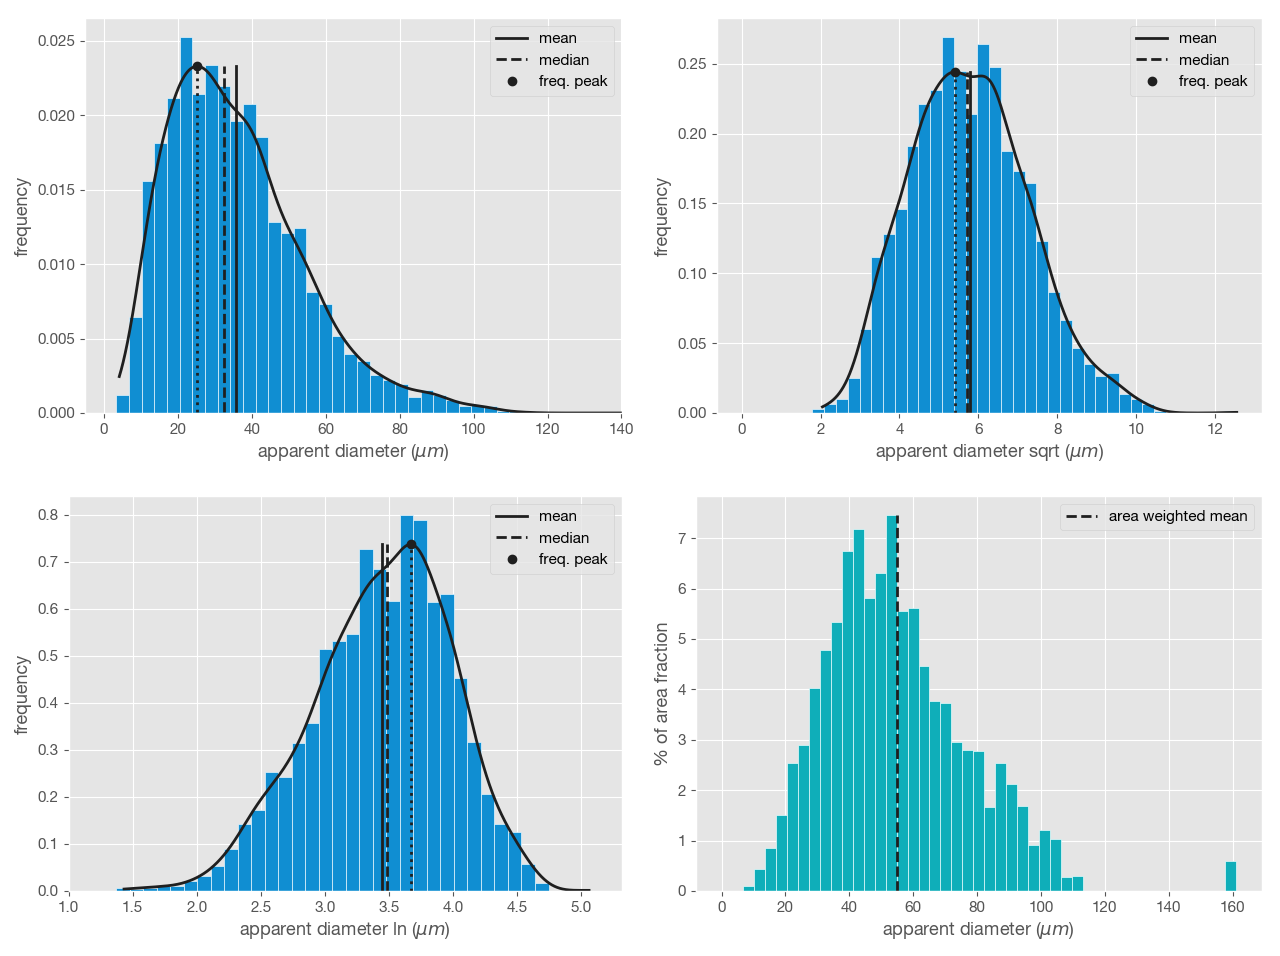
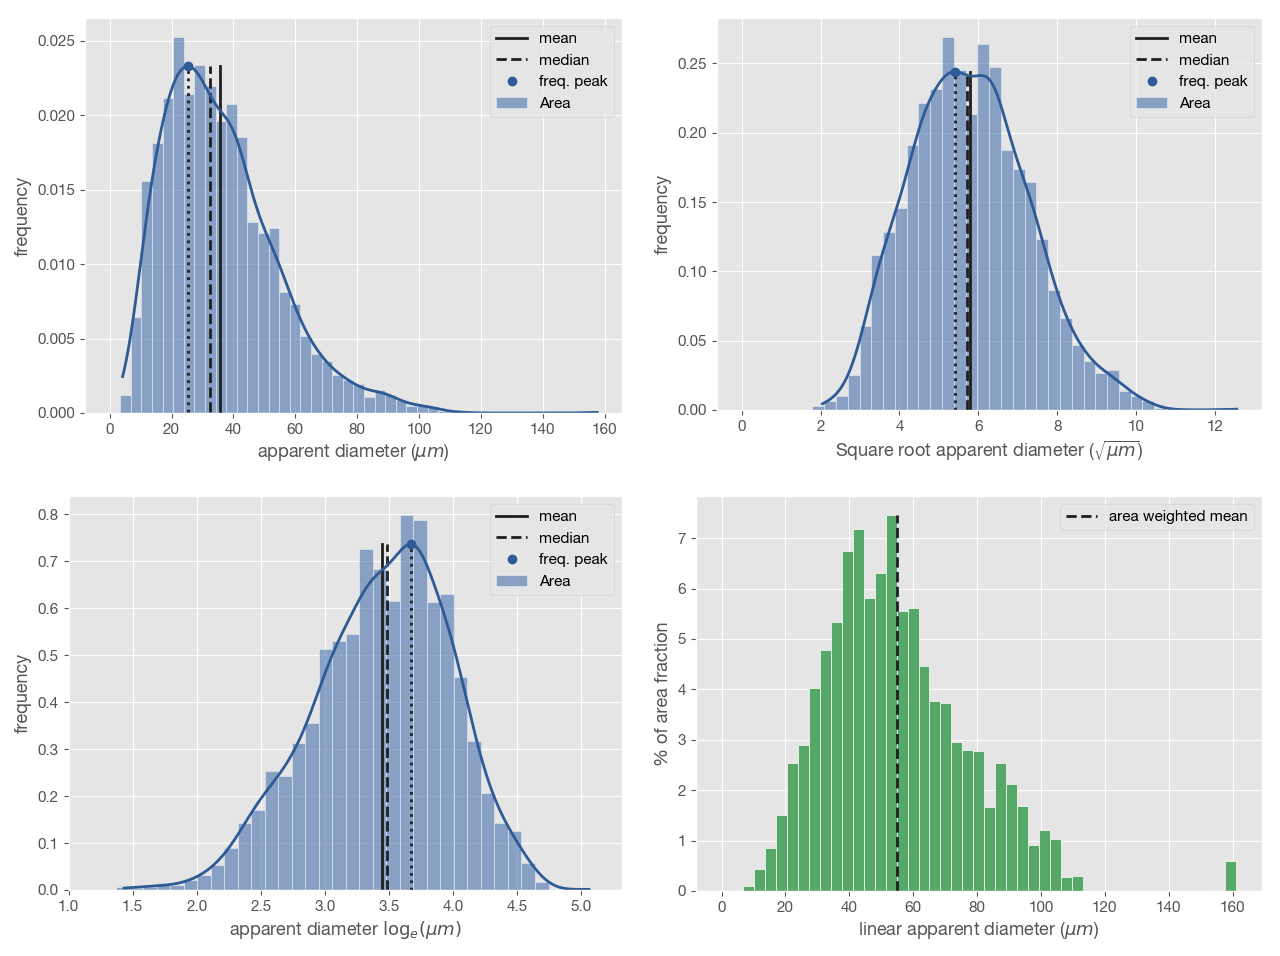
release v1.4.5

diff --git a/index.html b/index.html
@@ -223,10 +223,10 @@ header, .context-menu, .megamenu-content, footer { font-family: "Segoe UI", Aria
 </style>
 </head>
 <body class='typora-export' >
-<div  id='write'  class = 'is-node'><p><img src='https://raw.githubusercontent.com/marcoalopez/GrainSizeTools/master/FIGURES/new_header.png' alt='' /></p><p><em>This project is maintained by <a href='https://marcoalopez.github.io/'>Marco A. Lopez-Sanchez</a> - Last update (website): 2018/03/26</em><br/></p><p><a href='http://marcoalopez.github.io/GrainSizeTools/'>GrainSizeTools script</a> is a free, open-source, cross-platform script written in <a href='https://www.python.org/'>Python</a> that provides several tools for visualizing and estimating grain size in polycrystalline materials. The script is able to <strong>estimate differential stress through paleopiezometers</strong>, implementing multiple piezometric relations for comparison, and to derive the actual (3D) grain size distribution from thin sections using the Saltykov and the two-step methods. The script only requires as input the areas of the grain profiles measured grain-by-grain in a thin section and <strong>does not require previous experience with Python programming language</strong> (see documentation below and <a href='https://github.com/marcoalopez/GrainSizeTools/blob/master/DOCS/FAQ.md'>FAQ</a>). For users with coding skills, the script is organized in a modular way using functions that facilitate the reuse or extend the code.</p><p><strong>Last release 2018/03/26, v1.4.4</strong> <br/></p><h2><a name='header-n10' class='md-header-anchor '></a>Features at a glance</h2><ul><li>Extract data from text (.txt, .csv) or excel files generated by the ImageJ or any other application.</li><li>Calculate apparent diameters of grain profiles via the equivalent circular diameter.</li><li>Estimate different apparent 1D grain size measures including the mean, median, area-weighted mean, and frequency peak, the latter using a Gaussian Kernel Density Estimator. Grain size scales can be linear, logarithmic, or square root.</li><li>Includes several algorithms to estimate the optimal bin size of histograms and the optimal bandwidth of the Gaussian KDE based on the population features.</li><li>Approximate the actual 3D grain size distribution from data collected in thin sections (2D data) using the Saltykov method. This includes estimating the volume of a particular grain size fraction.</li><li>Approximate the shape of the 3D grain size distribution using a single parameter (the MSD - <em>Multiplicative Standard Deviation</em>) via the two-step method.</li><li>Estimate differential stress via paleopiezometers including multiple piezometric relations for quartz, olivine, calcite, and albite. Other phases available soon!</li><li>Ready-to-publish plots in bitmap or vector format (see screenshots below for examples).</li><li><strong>New in v1.4.4:</strong> Estimate robust confidence intervals using the student&#39;s t-distribution</li></ul><h2><a name='header-n39' class='md-header-anchor '></a>Download</h2><p>You can download the script at the following sites:<br/>
+<div  id='write'  class = 'is-node'><p><img src='https://raw.githubusercontent.com/marcoalopez/GrainSizeTools/master/FIGURES/new_header.png' alt='' /></p><p><em>This project is maintained by <a href='https://marcoalopez.github.io/'>Marco A. Lopez-Sanchez</a> - Last update (website): 2018/03/27</em><br/></p><p><a href='http://marcoalopez.github.io/GrainSizeTools/'>GrainSizeTools script</a> is a free, open-source, cross-platform script written in <a href='https://www.python.org/'>Python</a> that provides several tools for visualizing and estimating grain size in polycrystalline materials. The script is able to <strong>estimate differential stress through paleopiezometers</strong>, implementing multiple piezometric relations for comparison, and to derive the actual (3D) grain size distribution from thin sections using the Saltykov and the two-step methods. The script only requires as input the areas of the grain profiles measured grain-by-grain in a thin section and <strong>does not require previous experience with Python programming language</strong> (see documentation below and <a href='https://github.com/marcoalopez/GrainSizeTools/blob/master/DOCS/FAQ.md'>FAQ</a>). For users with coding skills, the script is organized in a modular way using functions that facilitate the reuse or extend the code.</p><p><strong>Last release 2018/03/27, v1.4.5</strong> <br/></p><h2><a name='header-n10' class='md-header-anchor '></a>Features at a glance</h2><ul><li>Extract data from text (.txt, .csv) or excel files generated by the ImageJ or any other application.</li><li>Calculate apparent diameters of grain profiles via the equivalent circular diameter.</li><li>Estimate different apparent 1D grain size measures including the mean, median, area-weighted mean, and frequency peak, the latter using a Gaussian Kernel Density Estimator. Grain size scales can be linear, logarithmic, or square root.</li><li>Includes several algorithms to estimate the optimal bin size of histograms and the optimal bandwidth of the Gaussian KDE based on the population features.</li><li>Approximate the actual 3D grain size distribution from data collected in thin sections (2D data) using the Saltykov method. This includes estimating the volume of a particular grain size fraction.</li><li>Approximate the shape of the 3D grain size distribution using a single parameter (the MSD - <em>Multiplicative Standard Deviation</em>) via the two-step method.</li><li>Estimate differential stress via paleopiezometers including multiple piezometric relations for quartz, olivine, calcite, and albite. Other phases available soon!</li><li>Ready-to-publish plots in bitmap or vector format (see screenshots below for examples).</li><li><strong>New in v1.4.4:</strong> Estimate robust confidence intervals using the student&#39;s t-distribution</li></ul><h2><a name='header-n39' class='md-header-anchor '></a>Download</h2><p>You can download the script at the following sites:<br/>
 <a href='https://github.com/marcoalopez/GrainSizeTools/releases' target='_blank' >https://github.com/marcoalopez/GrainSizeTools/releases</a><br/>
 <a href='http://figshare.com/articles/GrainSizeTools_script/1383130' target='_blank' >http://figshare.com/articles/GrainSizeTools_script/1383130</a><br/>
-<a href='https://sourceforge.net/projects/grainsizetools/' target='_blank' >https://sourceforge.net/projects/grainsizetools/</a></p><p><a href='https://github.com/marcoalopez/GrainSizeTools'>View the Project on GitHub</a></p><h2><a name='header-n47' class='md-header-anchor '></a>Documentation</h2><ul><li><p><a href='https://github.com/marcoalopez/GrainSizeTools/blob/master/DOCS/Requirements.md'>Requirements</a></p></li><li><p><a href='https://github.com/marcoalopez/GrainSizeTools/blob/master/DOCS/Scope.md'>Scope</a></p></li><li><p><a href='https://github.com/marcoalopez/GrainSizeTools/blob/master/DOCS/brief_tutorial.md'>Getting started: A step-by-step tutorial</a></p><ul><li><p><a href='https://github.com/marcoalopez/GrainSizeTools/blob/master/DOCS/brief_tutorial.md#open-and-running-the-script'>Open and running the script</a></p></li><li><p><a href='https://github.com/marcoalopez/GrainSizeTools/blob/master/DOCS/brief_tutorial.md#a-brief-note-on-the-organization-of-the-script'>A brief note on the organization of the script</a></p></li><li><p><a href='https://github.com/marcoalopez/GrainSizeTools/blob/master/DOCS/brief_tutorial.md#using-the-script-to-visualize-and-estimate-the-grain-size-features'>Using the script to visualize and estimate the grain size features</a></p><ul><li><a href='https://github.com/marcoalopez/GrainSizeTools/blob/master/DOCS/brief_tutorial.md#loading-the-data-and-extracting-the-areas-of-the-grain-profiles'>Loading the data and extracting the areas of the grain profiles</a></li><li><a href='https://github.com/marcoalopez/GrainSizeTools/blob/master/DOCS/brief_tutorial.md#estimating-the-apparent-diameters-from-the-areas-of-the-grain-profiles'>Estimating the apparent diameters from the areas of the grain profiles</a></li><li><a href='https://github.com/marcoalopez/GrainSizeTools/blob/master/DOCS/brief_tutorial.md#obtaining-apparent-grain-size-measures'>Obtaining apparent grain size measures</a></li><li><a href='https://github.com/marcoalopez/GrainSizeTools/blob/master/DOCS/brief_tutorial.md#estimating-differential-stress-using-piezometric-relations-paleopiezometry'>Estimating differential stress using piezometric relations (paleopiezometry)</a></li><li><a href='https://github.com/marcoalopez/GrainSizeTools/blob/master/DOCS/brief_tutorial.md#estimating-a-robust-confidence-interval'>Estimating a robust confidence interval</a></li><li><a href='https://github.com/marcoalopez/GrainSizeTools/blob/master/DOCS/brief_tutorial.md#derive-the-actual-3d-distribution-of-grain-sizes-from-thin-sections'>Derive the actual 3D distribution of grain sizes from thin sections</a></li><li><a href='https://github.com/marcoalopez/GrainSizeTools/blob/master/DOCS/brief_tutorial.md#comparing-different-grain-size-populations-using-box-plots'>Comparing different grain size populations using box plots</a></li><li><a href='https://github.com/marcoalopez/GrainSizeTools/blob/master/DOCS/brief_tutorial.md#general-methods-of-interest'>Other methods of interest</a></li></ul></li></ul></li><li><p><a href='https://github.com/marcoalopez/GrainSizeTools/blob/master/DOCS/quick_tutorial.md'>Quick tutorial</a></p></li><li><p><a href='https://github.com/marcoalopez/GrainSizeTools/blob/master/DOCS/imageJ_tutorial.md'>How to measure the areas of the grain profiles with ImageJ</a></p></li><li><p><a href='https://github.com/marcoalopez/GrainSizeTools/blob/master/DOCS/references.md'>References</a></p></li><li><p><a href='https://github.com/marcoalopez/GrainSizeTools/blob/master/DOCS/FAQ.md'>FAQs</a></p></li></ul><h2><a name='header-n105' class='md-header-anchor '></a>Screenshots</h2><h6><a name='header-n107' class='md-header-anchor '></a>Estimate of different apparent grain size measures in the same population, in this example using a linear (number- and area-weighted), square root, and logarithmic scales.</h6><p><img src='https://raw.githubusercontent.com/marcoalopez/GrainSizeTools/master/FIGURES/apparent_GS.png' alt='' /><br/></p><h6><a name='header-n111' class='md-header-anchor '></a>Estimate of the actual (3D) grain size distribution and volume of a particular grain size fraction using the Saltykov method</h6><p><img src='https://github.com/marcoalopez/GrainSizeTools/blob/master/FIGURES/figure_2.png?raw=true' alt='' /><br/></p><h6><a name='header-n115' class='md-header-anchor '></a>Estimate of the shape of the grain size distribution using the two-step method</h6><p><img src='https://github.com/marcoalopez/GrainSizeTools/blob/master/FIGURES/2step.png?raw=true' alt='' /><br/></p><h6><a name='header-n119' class='md-header-anchor '></a>Boxplots comparing different unimodal grain size distributions</h6><p><img src='https://raw.githubusercontent.com/marcoalopez/GrainSizeTools/master/FIGURES/readme05.png' alt='' /><br/></p><h2><a name='header-n123' class='md-header-anchor '></a>Citation guidelines</h2><p>If you need references, the following are available:</p><p><strong><em>Script reference</em></strong> <br/>
+<a href='https://sourceforge.net/projects/grainsizetools/' target='_blank' >https://sourceforge.net/projects/grainsizetools/</a></p><p><a href='https://github.com/marcoalopez/GrainSizeTools'>View project on GitHub</a></p><h2><a name='header-n47' class='md-header-anchor '></a>Documentation</h2><ul><li><p><a href='https://github.com/marcoalopez/GrainSizeTools/blob/master/DOCS/Requirements.md'>Requirements</a></p></li><li><p><a href='https://github.com/marcoalopez/GrainSizeTools/blob/master/DOCS/Scope.md'>Scope</a></p></li><li><p><a href='https://github.com/marcoalopez/GrainSizeTools/blob/master/DOCS/brief_tutorial.md'>Getting started: A step-by-step tutorial</a></p><ul><li><p><a href='https://github.com/marcoalopez/GrainSizeTools/blob/master/DOCS/brief_tutorial.md#open-and-running-the-script'>Open and running the script</a></p></li><li><p><a href='https://github.com/marcoalopez/GrainSizeTools/blob/master/DOCS/brief_tutorial.md#a-brief-note-on-the-organization-of-the-script'>A brief note on the organization of the script</a></p></li><li><p><a href='https://github.com/marcoalopez/GrainSizeTools/blob/master/DOCS/brief_tutorial.md#using-the-script-to-visualize-and-estimate-the-grain-size-features'>Using the script to visualize and estimate the grain size features</a></p><ul><li><a href='https://github.com/marcoalopez/GrainSizeTools/blob/master/DOCS/brief_tutorial.md#loading-the-data-and-extracting-the-areas-of-the-grain-profiles'>Loading the data and extracting the areas of the grain profiles</a></li><li><a href='https://github.com/marcoalopez/GrainSizeTools/blob/master/DOCS/brief_tutorial.md#estimating-the-apparent-diameters-from-the-areas-of-the-grain-profiles'>Estimating the apparent diameters from the areas of the grain profiles</a></li><li><a href='https://github.com/marcoalopez/GrainSizeTools/blob/master/DOCS/brief_tutorial.md#obtaining-apparent-grain-size-measures'>Obtaining apparent grain size measures</a></li><li><a href='https://github.com/marcoalopez/GrainSizeTools/blob/master/DOCS/brief_tutorial.md#estimating-differential-stress-using-piezometric-relations-paleopiezometry'>Estimating differential stress using piezometric relations (paleopiezometry)</a></li><li><a href='https://github.com/marcoalopez/GrainSizeTools/blob/master/DOCS/brief_tutorial.md#estimating-a-robust-confidence-interval'>Estimating a robust confidence interval</a></li><li><a href='https://github.com/marcoalopez/GrainSizeTools/blob/master/DOCS/brief_tutorial.md#derive-the-actual-3d-distribution-of-grain-sizes-from-thin-sections'>Derive the actual 3D distribution of grain sizes from thin sections</a></li><li><a href='https://github.com/marcoalopez/GrainSizeTools/blob/master/DOCS/brief_tutorial.md#comparing-different-grain-size-populations-using-box-plots'>Comparing different grain size populations using box plots</a></li><li><a href='https://github.com/marcoalopez/GrainSizeTools/blob/master/DOCS/brief_tutorial.md#general-methods-of-interest'>Other methods of interest</a></li></ul></li></ul></li><li><p><a href='https://github.com/marcoalopez/GrainSizeTools/blob/master/DOCS/quick_tutorial.md'>Quick tutorial</a></p></li><li><p><a href='https://github.com/marcoalopez/GrainSizeTools/blob/master/DOCS/imageJ_tutorial.md'>How to measure the areas of the grain profiles with ImageJ</a></p></li><li><p><a href='https://github.com/marcoalopez/GrainSizeTools/blob/master/DOCS/references.md'>References</a></p></li><li><p><a href='https://github.com/marcoalopez/GrainSizeTools/blob/master/DOCS/FAQ.md'>FAQs</a></p></li></ul><h2><a name='header-n105' class='md-header-anchor '></a>Screenshots</h2><h6><a name='header-n107' class='md-header-anchor '></a>Estimate of different apparent grain size measures in the same population, in this example using a linear (number- and area-weighted), square root, and logarithmic scales.</h6><p><img src='https://raw.githubusercontent.com/marcoalopez/GrainSizeTools/master/FIGURES/apparent_GS.png' alt='' /><br/></p><h6><a name='header-n111' class='md-header-anchor '></a>Estimate of the actual (3D) grain size distribution and volume of a particular grain size fraction using the Saltykov method</h6><p><img src='https://github.com/marcoalopez/GrainSizeTools/blob/master/FIGURES/figure_2.png?raw=true' alt='' /><br/></p><h6><a name='header-n115' class='md-header-anchor '></a>Estimate of the shape of the grain size distribution using the two-step method</h6><p><img src='https://github.com/marcoalopez/GrainSizeTools/blob/master/FIGURES/2step.png?raw=true' alt='' /><br/></p><h6><a name='header-n119' class='md-header-anchor '></a>Boxplots comparing different unimodal grain size distributions</h6><p><img src='https://raw.githubusercontent.com/marcoalopez/GrainSizeTools/master/FIGURES/readme05.png' alt='' /><br/></p><h2><a name='header-n123' class='md-header-anchor '></a>Citation guidelines</h2><p>If you need references, the following are available:</p><p><strong><em>Script reference</em></strong> <br/>
 Lopez-Sanchez, Marco A. (2018): GrainSizeTools script. figshare. <a href='http://dx.doi.org/10.6084/m9.figshare.1383130' target='_blank' >http://dx.doi.org/10.6084/m9.figshare.1383130</a></p><p><strong><em>Frequency peak apparent grain size based on Gaussian kernel density estimator</em></strong><br/>
 Lopez-Sanchez MA and Llana-Fúnez S (2015) An evaluation of different measures of dynamically recrystallized grain size for paleopiezometry or paleowattmetry studies. <em>Solid Earth</em> 6, 475-495. doi:<a href='http://dx.doi.org/10.5194/se-6-475-2015'>10.5194/se-6-475-2015</a></p><p><strong><em>Two-step method</em></strong><br/>
 Lopez-Sanchez MA and Llana-Fúnez (2016) An extension of the Saltykov method to quantify 3D grain size distributions in mylonites. <em>Journal of Structural Geology</em>, 93, 149-161. doi:<a href='http://dx.doi.org/10.1016/j.jsg.2016.10.008'>10.1016/j.jsg.2016.10.008</a>.</p><p><strong><em>Saltykov method</em></strong><br/>

diff --git a/GrainSizeTools_script.py b/GrainSizeTools_script.py
@@ -743,7 +743,7 @@ def freq_plot(diameters, binList, xgrid, y_values, y_max, x_peak, mean_GS, media
 
     ax.plot([x_peak], [y_max],
             'o',
-            color='#1F1F1F',
+            color='#2E5A95',
             label='freq. peak')
     ax.vlines(x_peak, 0.0001, y_max,
               linestyle=':',
@@ -1208,7 +1208,7 @@ def fit_function(x, shape, scale):
 
 texto = """
 ======================================================================================
-Welcome to GrainSizeTools script v1.4.4
+Welcome to GrainSizeTools script v1.4.5
 ======================================================================================
 GrainSizeTools is a free open-source cross-platform script to visualize and characterize
 the grain size in polycrystalline materials from thin sections and estimate differential

diff --git a/README.md b/README.md
@@ -1,10 +1,10 @@
 ![](https://raw.githubusercontent.com/marcoalopez/GrainSizeTools/master/FIGURES/new_header.png)
 
-*This project is maintained by [Marco A. Lopez-Sanchez](https://marcoalopez.github.io/) - Last update (website): 2018/03/26*  
+*This project is maintained by [Marco A. Lopez-Sanchez](https://marcoalopez.github.io/) - Last update (website): 2018/03/27*  
 
 [GrainSizeTools script](http://marcoalopez.github.io/GrainSizeTools/) is a free, open-source, cross-platform script written in [Python](https://www.python.org/) that provides several tools for visualizing and estimating grain size in polycrystalline materials. The script is able to **estimate differential stress through paleopiezometers**, implementing multiple piezometric relations for comparison, and to derive the actual (3D) grain size distribution from thin sections using the Saltykov and the two-step methods. The script only requires as input the areas of the grain profiles measured grain-by-grain in a thin section and **does not require previous experience with Python programming language** (see documentation below and [FAQ](https://github.com/marcoalopez/GrainSizeTools/blob/master/DOCS/FAQ.md)). For users with coding skills, the script is organized in a modular way using functions that facilitate the reuse or extend the code.
 
-**Last release 2018/03/26, v1.4.4**   
+**Last release 2018/03/27, v1.4.5**   
 
 
 ## Features at a glance
@@ -26,7 +26,7 @@ https://github.com/marcoalopez/GrainSizeTools/releases
 http://figshare.com/articles/GrainSizeTools_script/1383130  
 https://sourceforge.net/projects/grainsizetools/
 
-[View the Project on GitHub](https://github.com/marcoalopez/GrainSizeTools)
+[View project on GitHub](https://github.com/marcoalopez/GrainSizeTools)
 
 ## Documentation
 

diff --git a/DOCS/brief_tutorial.md b/DOCS/brief_tutorial.md
@@ -1,10 +1,10 @@
-*last update 2018/03/25* 
+*last update 2018/03/27* 
 
 Getting Started: A step-by-step tutorial
 -------------
 
 > **Important note:**
-> Please, **update to version 1.4.4**. It is also advisable to **update the plotting library matplotlib to version 2.x** since all the plots are optimized for such version.
+> Please, **update to version 1.4.5**. It is also advisable to **update the plotting library matplotlib to version 2.x** since all the plots are optimized for such version.
 
 ### *Open and running the script*
 
